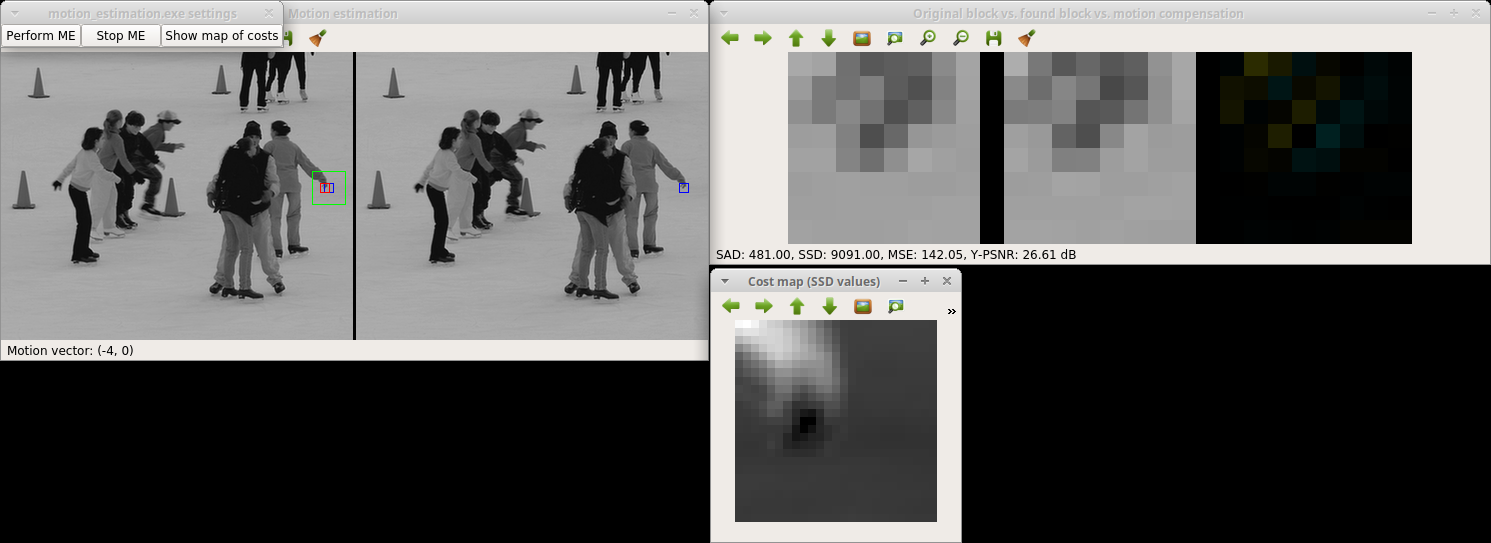
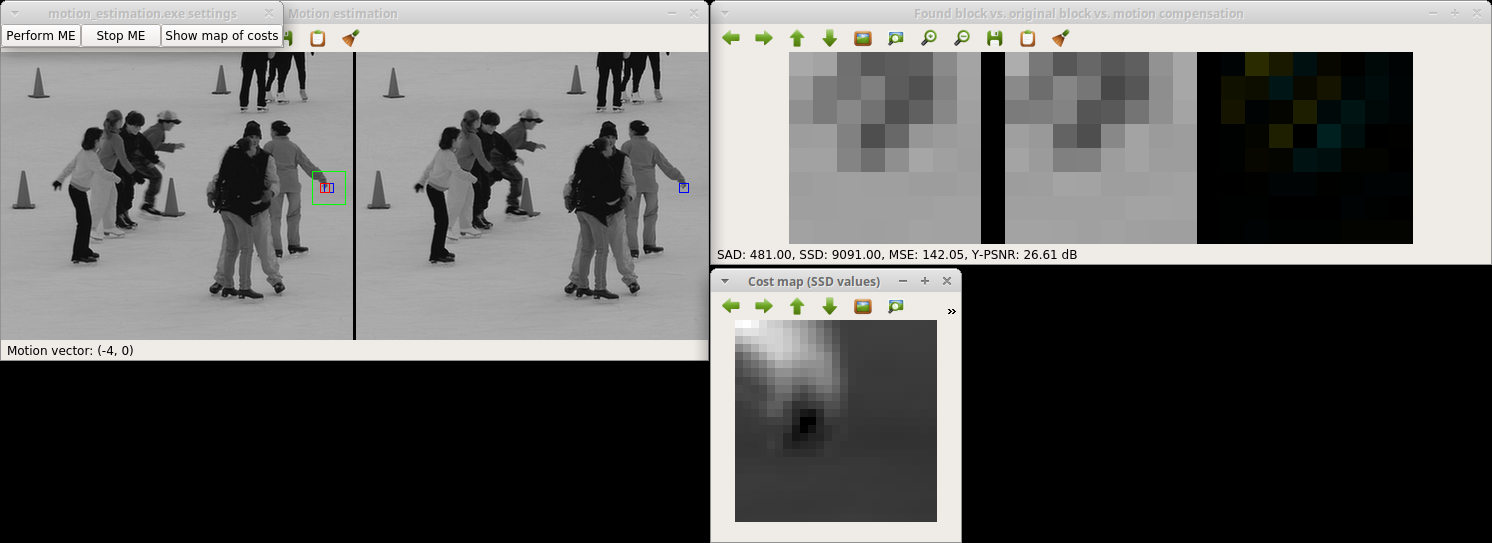
Fix window name in motion estimation demo (first two elements were switched)

diff --git a/video_compression/motion_estimation.cpp b/video_compression/motion_estimation.cpp
@@ -210,7 +210,7 @@ static void ShowImages(const Mat &reference_image, const Mat &image, const Point
   constexpr auto me_window_name = "Motion estimation";
   namedWindow(me_window_name);
   moveWindow(me_window_name, 0, 0);
-  constexpr auto mc_window_name = "Original block vs. found block vs. motion compensation";
+  constexpr auto mc_window_name = "Found block vs. original block vs. motion compensation";
   namedWindow(mc_window_name, WINDOW_NORMAL); //Disable auto-size to enable zooming
   resizeWindow(mc_window_name, (3 * block_size + 2) * 30, block_size * 30); //>30x zoom to illustrate values (MC image shows 3 blocks and two border pixels) //TODO: Why is x30 not sufficient?
   moveWindow(mc_window_name, 2 * image.cols + 3 + 3, 0); //Move MC window right beside the ME window (2 images plus 3 border pixels plus additional distance)
